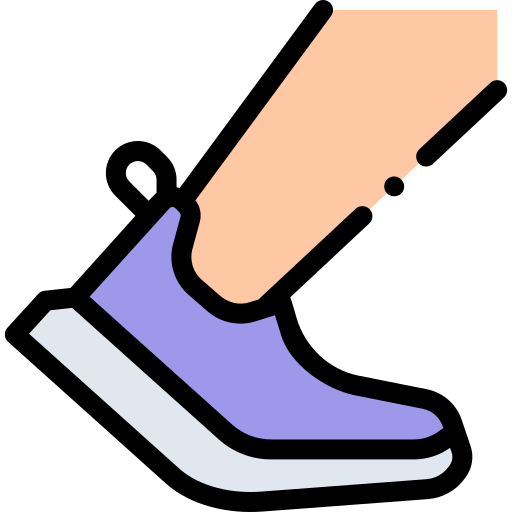
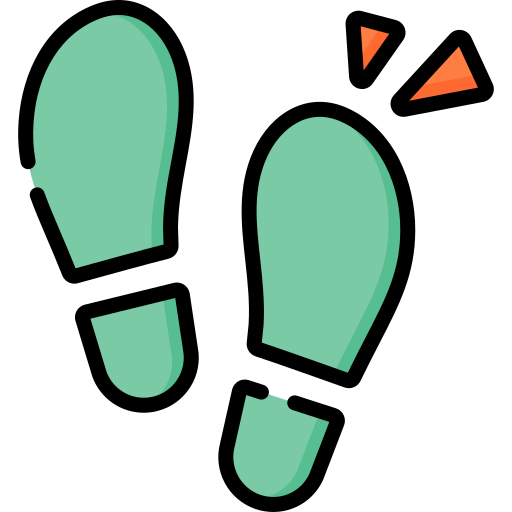
교사 앱 아이콘 + 누적현황 헤딩 + 아이콘 4개 교체 + SW v1.7.0

diff --git a/teacher.html b/teacher.html
@@ -1,5 +1,5 @@
 <!DOCTYPE html>
-<!-- ▣ teacher.html · 교사 앱 · v2.8.0 · 2026-07-01
+<!-- ▣ teacher.html · 교사 앱 · v2.16.2 · 2026-08-05
      수정요약: 순위 학생/선생님 탭 분리(학생=챌린저 동일) + 사진 재제출(덮어쓰기 확인) -->
 <html lang="ko">
 <head>
@@ -146,7 +146,7 @@
 
   <!-- 우리 반 모니터링 -->
   <div id="s-class" class="screen">
-    <div class="home-head"><div class="greet"><div class="g1">🏫 우리 반 모니터링</div><div class="g2" id="cl-name">학급 선택</div></div><button class="switch" onclick="openClassPicker()">＋ 학급</button></div>
+    <div class="home-head"><div class="greet"><div class="g1"><img src="https://arete929.github.io/hyewon-walk/icons/class.png" style="width:18px;height:18px;object-fit:contain;vertical-align:-3px;margin-right:3px"> 우리 반 모니터링</div><div class="g2" id="cl-name">학급 선택</div></div><button class="switch" onclick="openClassPicker()">＋ 학급</button></div>
     <div class="scroll" id="cl-body"><div class="spin-wrap"><div class="spin"></div></div></div>
   </div>
 
@@ -155,7 +155,7 @@
     <div class="nav"><button class="back" onclick="go('home')">←</button><h3>아침 운동 인증</h3></div>
     <p class="help">운동앱의 <b>운동 1건(걷기/러닝) 기록 화면</b>을 캡처해서 올려주세요. (삼성헬스·애플 피트니스·NRC·스트라바 등 · 거리 표시)</p>
     <img id="nrc-prev" class="preview" alt="">
-    <div class="drop" id="drop" onclick="document.getElementById('nrc-file').click()"><div class="tile">📷</div><div class="d1">탭하여 사진 선택</div><div class="d2">JPG · PNG · 최대 10MB</div></div>
+    <div class="drop" id="drop" onclick="document.getElementById('nrc-file').click()"><div class="tile" style="background:#FFF6EF"><img src="https://arete929.github.io/hyewon-walk/icons/photo.png" style="width:42px;height:42px;object-fit:contain"></div><div class="d1">탭하여 사진 선택</div><div class="d2">JPG · PNG · 최대 10MB</div></div>
     <input type="file" id="nrc-file" accept="image/*" style="display:none" onchange="previewNrc(this)">
     <div id="nrc-err" class="err-msg"></div>
     <div style="padding:10px 20px 20px;"><button class="btn" id="btn-nrc" disabled onclick="submitNrc()">제출하기</button></div>
@@ -168,13 +168,13 @@
   <div id="s-rank" class="screen"><div class="home-head"><div class="greet"><div class="g2">🏆 순위</div></div></div><div class="seg2"><button id="rm-stu" class="on" onclick="setRankMode('student')">학생</button><button id="rm-tea" onclick="setRankMode('teacher')">선생님</button></div><div class="scroll" id="rk-body"><div class="spin-wrap"><div class="spin"></div></div></div></div>
 
   <!-- 누적 -->
-  <div id="s-cum" class="screen"><div class="home-head"><div class="greet"><div class="g2">📊 누적 현황</div></div></div><div class="scroll" id="cm-body"><div class="spin-wrap"><div class="spin"></div></div></div></div>
+  <div id="s-cum" class="screen"><div class="home-head"><div class="greet"><div class="g2"><img src="https://arete929.github.io/hyewon-walk/icons/cumstat.png" style="width:20px;height:20px;object-fit:contain;vertical-align:-4px;margin-right:4px">누적 현황</div></div></div><div class="scroll" id="cm-body"><div class="spin-wrap"><div class="spin"></div></div></div></div>
 
   <div class="tabbar" id="tabbar" style="display:none;">
-    <button id="tb-home" class="active" onclick="tab('home')"><span class="ti">🏠</span>오늘</button>
-    <button id="tb-class" onclick="tab('class')"><span class="ti">🏫</span>우리반</button>
-    <button id="tb-rank" onclick="tab('rank')"><span class="ti">🏆</span>순위</button>
-    <button id="tb-cum" onclick="tab('cum')"><span class="ti">📅</span>누적</button>
+    <button id="tb-home" class="active" onclick="tab('home')"><span class="ti"><img src="https://arete929.github.io/hyewon-walk/icons/today.png" style="width:21px;height:21px;object-fit:contain;display:block"></span>오늘</button>
+    <button id="tb-class" onclick="tab('class')"><span class="ti"><img src="https://arete929.github.io/hyewon-walk/icons/class.png" style="width:21px;height:21px;object-fit:contain;display:block"></span>우리반</button>
+    <button id="tb-rank" onclick="tab('rank')"><span class="ti"><img src="https://arete929.github.io/hyewon-walk/icons/rank.png" style="width:21px;height:21px;object-fit:contain;display:block"></span>순위</button>
+    <button id="tb-cum" onclick="tab('cum')"><span class="ti"><img src="https://arete929.github.io/hyewon-walk/icons/cum.png" style="width:21px;height:21px;object-fit:contain;display:block"></span>누적</button>
   </div>
 </div>
 
@@ -230,10 +230,10 @@ function renderHome(d){
   $('hm-day').textContent='DAY '+(d.day||'-');
   var done=d.morning.status==='approved';
   var badge=done?'<span class="pill pill-done">인증 완료 ✓</span>':'<span class="pill pill-wait">미제출</span>';
-  var cta=done?'<div class="center muted" style="font-size:13px;margin-top:12px;">오늘 인증 완료! 🎉'+(d.morning.km?' · '+d.morning.km+'km':'')+'</div>':'<button class="btn btn-cta" style="margin-top:14px;" onclick="go(\'nrc\')">📷 운동 사진 제출</button>';
+  var cta=done?'<div class="center muted" style="font-size:13px;margin-top:12px;">오늘 인증 완료! 🎉'+(d.morning.km?' · '+d.morning.km+'km':'')+'</div>':'<button class="btn btn-cta" style="margin-top:14px;" onclick="go(\'nrc\')"><img src="https://arete929.github.io/hyewon-walk/icons/photo.png" style="width:20px;height:20px;object-fit:contain;vertical-align:-4px;margin-right:3px">운동 사진 제출</button>';
   $('hm-body').innerHTML=
     '<div class="label">오늘의 미션</div>'+
-    '<div class="card"><div class="mcard"><div class="tile">🏃</div><div class="mid"><div class="t1">아침 운동</div><div class="t2">운동앱 기록 인증 (체크인 불필요)</div></div>'+badge+'</div>'+cta+'</div>'+
+    '<div class="card"><div class="mcard"><div class="tile" style="background:#FFF6EF"><img src="https://arete929.github.io/hyewon-walk/icons/run.png" style="width:42px;height:42px;object-fit:contain"></div><div class="mid"><div class="t1">아침 운동</div><div class="t2">운동앱 기록 인증 (체크인 불필요)</div></div>'+badge+'</div>'+cta+'</div>'+
     '<div class="stat-row"><div class="stat grad"><div class="v">'+(d.day||'-')+'</div><div class="l">현재 일차</div></div><div class="stat white"><div class="v">'+(done?'O':'-')+'</div><div class="l">오늘 인증</div></div></div>';
 }
 
@@ -255,7 +255,7 @@ function renderResult(r){
   var cells=g('⏱ 시간',r.duration?fmtDur(r.duration):'-')+g('🏃 평균 페이스',r.pace?(r.pace+'/km'):'-');
   if(!under){cells+=g('⚡ 평균 속도',r.speed?(r.speed+'km/h'):'-')+g('🔥 칼로리',r.kcal?(r.kcal+'kcal'):'-');}
   var cheer=under?'<div class="card" style="background:#FFF3E2;border:1px solid #FBDDAE;"><div style="font-weight:800;color:#B5740A;">💪 오늘은 1km 미만이에요 — 내일은 1km 넘어볼까요? 😊</div></div>':'';
-  $('rs-body').innerHTML='<div class="succ-badge">✅ 운동 인증 완료</div><div class="hero"><div class="hd">'+esc(r.date||'')+'</div><div class="big">'+(r.distance!=null?r.distance:'-')+'<span style="font-size:20px;font-weight:700;">km</span></div><div class="cap">총 이동 거리</div></div>'+cheer+'<div class="grid2">'+cells+'</div><div class="saved">기록 저장 완료 ✓</div><div style="padding:6px 20px 20px;"><button class="btn btn-ghost" onclick="go(\'home\');loadHome();">홈으로</button></div>';
+  $('rs-body').innerHTML='<div class="succ-badge"><img src="https://arete929.github.io/hyewon-walk/icons/check.png" style="width:18px;height:18px;object-fit:contain;vertical-align:-3px;margin-right:3px">운동 인증 완료</div><div class="hero"><div class="hd">'+esc(r.date||'')+'</div><div class="big">'+(r.distance!=null?r.distance:'-')+'<span style="font-size:20px;font-weight:700;">km</span></div><div class="cap">총 이동 거리</div></div>'+cheer+'<div class="grid2">'+cells+'</div><div class="saved">기록 저장 완료 ✓</div><div style="padding:6px 20px 20px;"><button class="btn btn-ghost" onclick="go(\'home\');loadHome();">홈으로</button></div>';
 }
 
 /* 우리 반 모니터링 */
@@ -312,7 +312,7 @@ function renderRankTab(){ if(!T.dash)return; if(T.rankMode==='teacher')renderTea
 function renderTeacherRank(){
   var list=(T.dash.teachers||[]).filter(function(x){return x.totalKm>0;}).sort(function(a,b){return b.totalKm-a.totalKm;});
   if(!list.length){$('rk-body').innerHTML='<p class="center muted" style="padding:30px;">아직 기록이 없어요</p>';return;}
-  $('rk-body').innerHTML=list.map(function(s,i){var me=s.name===T.name;var medal=['🥇','🥈','🥉'][i]||(i+1);
+  $('rk-body').innerHTML=list.map(function(s,i){var me=s.name===T.name;var medal=i<3?('<img src="https://arete929.github.io/hyewon-walk/icons/medal'+(i+1)+'.png" style="width:22px;height:22px;object-fit:contain;vertical-align:middle">'):(i+1);
     return '<div class="rrow'+(me?' me':'')+'"><div class="rk">'+medal+'</div><div class="ava">'+esc((s.name||' ').charAt(0))+'</div><div class="ri"><div class="n">'+esc(s.name)+(me?'<span class="me-badge">나</span>':'')+'</div><div class="c">'+s.days+'일 참가</div></div><div class="km">'+(Math.round(s.totalKm*10)/10)+'km</div></div>';
   }).join('');
 }
@@ -328,7 +328,7 @@ function renderStudentRank(){
   if(T.scope==='ind'){
     var list=sStudents().filter(function(s){return s.totalKm>0;}).sort(function(a,b){return b.totalKm-a.totalKm;}).slice(0,50);
     if(!list.length){body.innerHTML='<p class="center muted" style="padding:24px;">아직 기록이 없어요</p>';return;}
-    body.innerHTML=list.map(function(s,i){var medal=['🥇','🥈','🥉'][i]||(i+1);
+    body.innerHTML=list.map(function(s,i){var medal=i<3?('<img src="https://arete929.github.io/hyewon-walk/icons/medal'+(i+1)+'.png" style="width:22px;height:22px;object-fit:contain;vertical-align:middle">'):(i+1);
       return '<div class="rrow"><div class="rk">'+medal+'</div><div class="ava">'+esc((s.name||' ').charAt(0))+'</div><div class="ri"><div class="n">'+(s.studentNo?esc(s.studentNo)+' ':'')+esc(s.name)+'</div><div class="c">'+s.grade+'-'+s.classNo+'</div></div><div class="km">'+(Math.round(s.totalKm*10)/10)+'km</div></div>';
     }).join('');
   } else {
@@ -336,7 +336,7 @@ function renderStudentRank(){
     src.forEach(function(s){var k=s.grade+'-'+s.classNo;if(!cls[k])cls[k]={g:s.grade,c:s.classNo,n:0,part:0,km:0};cls[k].n++;if(s.totalKm>0){cls[k].part++;cls[k].km+=s.totalKm;}});
     var arr=Object.keys(cls).map(function(k){var o=cls[k];o.avg=o.part?o.km/o.part:0;return o;}).sort(function(a,b){return b.avg-a.avg;}).slice(0,30);
     if(!arr.length){body.innerHTML='<p class="center muted" style="padding:24px;">데이터 없음</p>';return;}
-    body.innerHTML=arr.map(function(o,i){var medal=['🥇','🥈','🥉'][i]||(i+1);
+    body.innerHTML=arr.map(function(o,i){var medal=i<3?('<img src="https://arete929.github.io/hyewon-walk/icons/medal'+(i+1)+'.png" style="width:22px;height:22px;object-fit:contain;vertical-align:middle">'):(i+1);
       return '<div class="rrow"><div class="rk">'+medal+'</div><div class="ava" style="background:#7BB8E8;">'+o.g+'-'+o.c+'</div><div class="ri"><div class="n">'+o.g+'학년 '+o.c+'반</div><div class="c">참여 '+o.part+'/'+o.n+'명</div></div><div class="km">'+(Math.round(o.avg*10)/10)+'km</div></div>';
     }).join('');
   }

diff --git a/index.html b/index.html
@@ -236,7 +236,7 @@
 
   <!-- 6. 누적 -->
   <div id="s-cum" class="screen">
-    <div class="home-head"><div class="greet"><div class="g2">📊 누적 현황</div></div></div>
+    <div class="home-head"><div class="greet"><div class="g2"><img src="https://arete929.github.io/hyewon-walk/icons/cumstat.png" style="width:20px;height:20px;object-fit:contain;vertical-align:-4px;margin-right:4px">누적 현황</div></div></div>
     <div class="scroll" id="cm-body"><div class="spin-wrap"><div class="spin"></div></div></div>
   </div>
 

diff --git a/sw.js b/sw.js
@@ -1,5 +1,5 @@
 /* 아침걷기 챌린지 PWA 서비스워커 | 버전 올리면 캐시 갱신·자동 새로고침 */
-var CACHE = 'achim-v1.6.0';
+var CACHE = 'achim-v1.7.0';
 var ASSETS = ['./', './index.html', './supporter.html', './teacher.html', './manifest.webmanifest', './icon-192.png', './icon-512.png'];
 
 self.addEventListener('install', function (e) {
